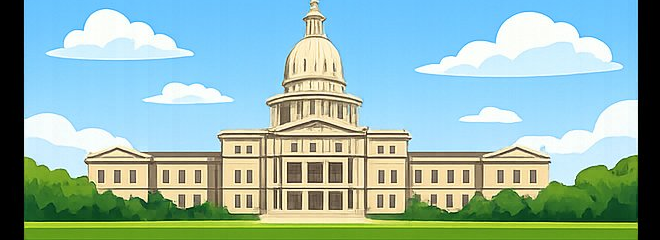
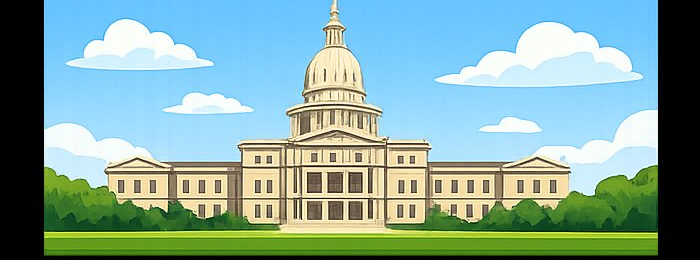
Fix black bars, improve background coverage

diff --git a/lame-duck.html b/lame-duck.html
@@ -9,8 +9,8 @@
   <link href="https://fonts.googleapis.com/css2?family=Playfair+Display:wght@700&family=Barlow:wght@400;600;700&display=swap" rel="stylesheet" />
   <style>
     *,*::before,*::after{box-sizing:border-box;margin:0;padding:0}
-    html,body{width:100%;height:100%;overflow:hidden;background:#87CEEB;touch-action:none}
-    canvas{display:block;position:fixed;inset:0;width:100%!important;height:100%!important}
+    html,body{width:100%;height:100%;overflow:hidden;background:#87CEEB;touch-action:none;margin:0;padding:0}
+    canvas{display:block;position:fixed;top:0;left:0;right:0;bottom:0;width:100vw!important;height:100vh!important}
     .screen{position:fixed;inset:0;display:flex;flex-direction:column;align-items:center;justify-content:center;z-index:20}
     .hidden{display:none!important}
     .bg-blur{background:rgba(10,22,40,0.82);backdrop-filter:blur(6px)}
@@ -127,12 +127,13 @@
 
     function resize() {
       DPR = window.devicePixelRatio || 1;
-      W = window.innerWidth;
-      H = window.innerHeight;
-      canvas.width  = W * DPR;
-      canvas.height = H * DPR;
+      W = document.documentElement.clientWidth;
+      H = document.documentElement.clientHeight;
+      canvas.width  = Math.round(W * DPR);
+      canvas.height = Math.round(H * DPR);
       canvas.style.width  = W + 'px';
       canvas.style.height = H + 'px';
+      ctx.setTransform(1, 0, 0, 1, 0, 0);
       ctx.scale(DPR, DPR);
     }
     resize();
@@ -275,18 +276,20 @@
     // ── DRAW ──────────────────────────────────────────────────────────────────
     function drawBackground() {
       const bg = imgs.bg;
-      const skyH = H - GH;
+      // Always fill sky first as fallback
       ctx.fillStyle = '#87CEEB';
-      ctx.fillRect(0, 0, W, skyH);
+      ctx.fillRect(0, 0, W, H);
       if (bg && bg.complete && bg.naturalWidth) {
-        // Cover — scale to whichever gives full coverage
+        ctx.imageSmoothingEnabled = true;
+        ctx.imageSmoothingQuality = 'high';
+        // Cover — use whichever scale is larger so no gaps ever appear
         const scaleW = W / bg.naturalWidth;
-        const scaleH = skyH / bg.naturalHeight;
-        const scale  = Math.max(scaleW, scaleH);
+        const scaleH = H / bg.naturalHeight; // scale to full H not just skyH
+        const scale  = Math.max(scaleW, scaleH) * 1.01; // tiny overshoot to eliminate edge gaps
         const drawW  = bg.naturalWidth  * scale;
         const drawH  = bg.naturalHeight * scale;
         const drawX  = (W - drawW) / 2;
-        const drawY  = (skyH - drawH) / 2;
+        const drawY  = (H - drawH) / 2;
         ctx.drawImage(bg, drawX, drawY, drawW, drawH);
       }
     }
